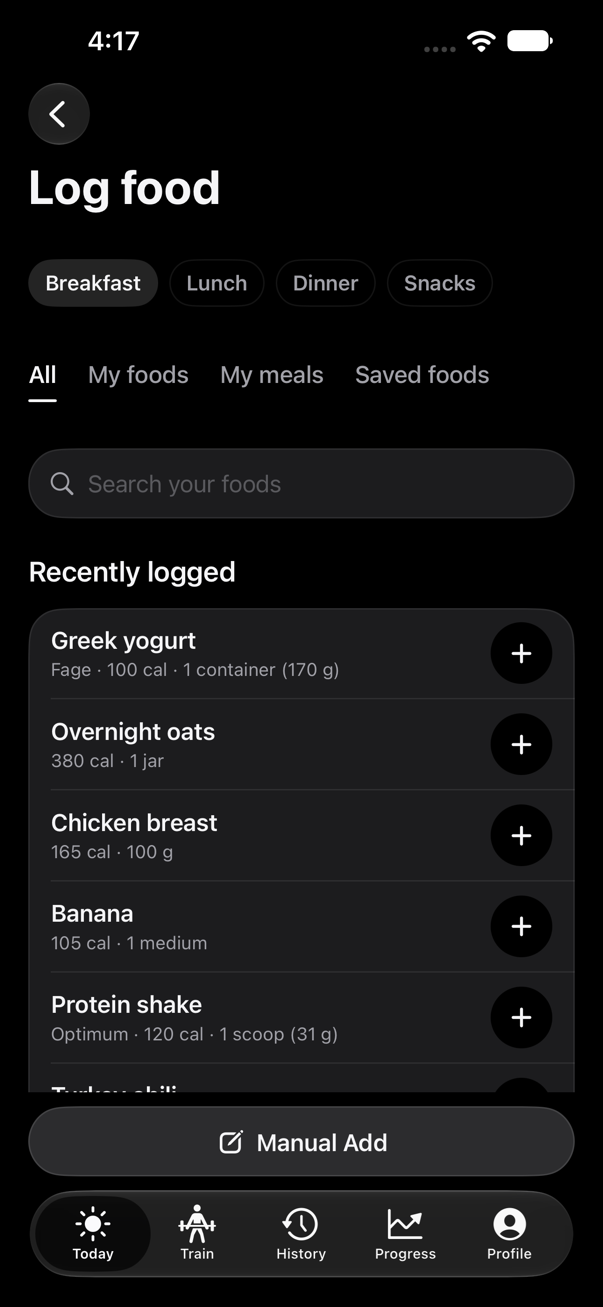
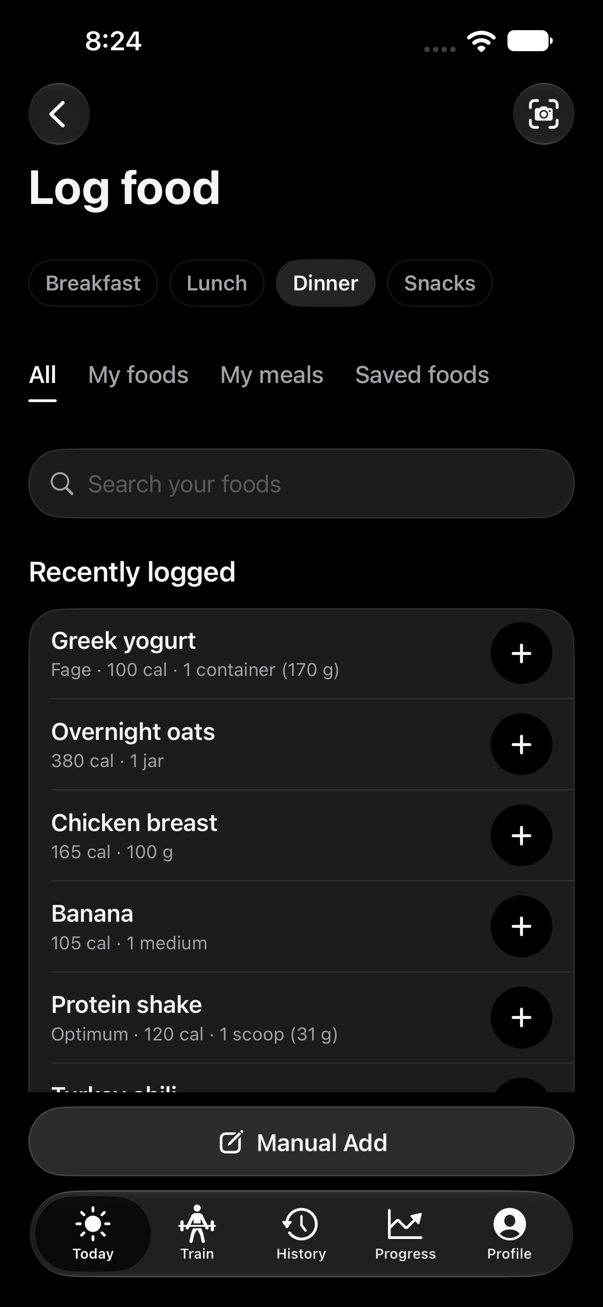
README: Log food picture with the scan camera; Codex round-2 brief
Claude-Session: https://claude.ai/code/session_017cMa8vLEK3sUNbhAQZXLaD

diff --git a/work-record/nutrition/codex-review-n7b-prompt.md b/work-record/nutrition/codex-review-n7b-prompt.md
@@ -1,0 +1,56 @@
+# Codex review — nutrition N7, round 2 (fixes for codex-review-n7)
+
+You are the independent reviewer; Claude implemented. You are a fresh Codex session (the round-1 session ran out of
+context): read AGENTS.md first, then this prompt. Checkout `/Users/ericlee06/orca/workspaces/Health App/UI_design`,
+branch `ericlee4992/nutrition-07-scan-food`. Round 1's prompt is `work-record/nutrition/codex-review-n7-prompt.md`; its
+report is `work-record/nutrition/codex-review-n7.md` (Verdict: not clear, 8 × P2 + 1 × P3 + the test-plan check).
+Review the fixes: `git diff a6de2e5..HEAD` (round 1 reviewed `a6de2e5`), and re-check anything the fixes touch in the
+whole N7 diff (`git diff 76600c2..HEAD`). Read N7's ticket and D82/D83 as in round 1.
+
+What changed, per finding (verify each is fixed and nothing new broke):
+- **T1 safety copy:** the photo is now a `FoodPhoto` row (`data: Data?`, inline — no `.externalStorage`) owned by
+  `FoodEntry.photo` (`.cascade`); `photoData` accessor; thumbnail cache keyed by the entry (no photo row load once
+  cached). New approved fingerprint (same user-approved N7 change, corrected). Tests: `SafetyCopyTests.
+  aMealPhotoComesBackWholeFromACopy` (2,000,000 bytes through the real `make` / `scheduleRestore` /
+  `performPendingRestore` into an emptied store folder) and `noAttributeIsStoredOutsideTheDatabaseFile` (the app
+  model has no external-storage attribute). Is a relationship the right call vs. inline on `FoodEntry` (Today's
+  `@Query` of all entries)? CloudKit: inline Data ≤ ~600 KB per photo.
+- **S1:** Log food's Estimate asks to sign in when `TerraAccess.ready` is false (nothing sent, words kept); the queue
+  keeps `.signedOut` (card: "Sign in, then try again." + Sign In → `AccountSignInSheet`, then the same scan is retried
+  on dismiss if signed in). Tests `testASignedOutDescriptionAsksToSignInFirst`, `testAnExpiredSessionsCardOffersSignIn`.
+- **S2:** a scan logged to an earlier day keeps its card ("Logged to Mon, Nov 9 · Lunch", Open → the items screen, ×).
+  Test `testAPhotoFromAnEarlierDayStaysReachable` (`-uiTestFoodScanYesterday`).
+- **S3:** the item editor keeps untouched numbers exactly (`EditableNumber`; `ScanItemNumbers.optional/required`);
+  unit tests in `FoodScanTests`.
+- **S4:** the shutter snapshots mode, box and view size (`capture`); the photo is handled as that; mode tiles and the
+  library button are disabled while a capture is pending; `send` takes the mode explicitly; Barcode never sends.
+- **S5:** the picked-photo import and the label read are owned tasks (`importTask`, `readTask`), cancelled on
+  Cancel / Retake / close / disappear; a label reply is accepted only for its `attempt` UUID (not by bytes).
+- **S6:** `BackgroundAssertion` (main actor) ends exactly once — work done, Remove (task cancel → defer), or iOS's
+  expiration handler, which cancels the request and leaves a "Try again" card.
+- **T2:** the queue no longer animates; Today animates on `scans.revision` with `reduceMotion ? nil : .snappy`; the
+  card's transition is opacity-only under Reduce Motion; Remove has no forced animation.
+- **T3:** README's Food logging gains Scan food; the privacy draft (`server/src/pages.ts`) says food scanning has no
+  separate prompt (sent only on the user's shot/choice/Estimate; manual logging always available) — still a DRAFT for
+  the user at R. The Log food README screenshot (`docs/readme/log-food.png`) is retaken from `LogFoodUITests/testCaptureReadme`
+  (603 px wide like the others; shows the camera in the bar).
+- **Test plans:** `ScanFoodUITests` added to TodayTrain; `python3 scripts/test-plans.py --check` exit 0.
+- D83's "(the server's day is UTC)" corrected to New York midnight.
+
+Claude's evidence (scratchpad
+`/private/tmp/claude-501/-Users-ericlee06-orca-workspaces-Health-App-UI-design/987d2e07-f1f0-4854-a4f2-1db12bf762c0/scratchpad/`):
+`u3.xcresult` (guard/safety-copy/scan units before the fingerprint update), `u4.xcresult` (Unit plan: 1,232 definitions / 1,252
+executions, 0 failed), `v2.xcresult` (ScanFood 10 + TodayFood + LogFood + LogFoodFlow, 2 workers: 27/27);
+`rd.xcresult` (README capture); server `npm test` 254/254 and `tsc` clean.
+
+Reviewer rule (round 2): build; run the Unit plan; the fixes change UI behaviour and UI tests, so rerun
+`AAAWarmUpUITests`, `ScanFoodUITests`, `TodayFoodUITests`, `LogFoodUITests`, `LogFoodFlowUITests` (2 workers; rerun
+failures serially before judging); server `npm test` + `npx tsc --noEmit`; `python3 scripts/test-plans.py --check`.
+Run on **WT-iPhone27** `47D21838-69A6-4BCB-AE90-B0D9C0AAA70B` (`scripts/prepare-test-simulator.sh <id>` first), paths
+under `/tmp/codex-n7b/`. Show progress in the existing Orca tab "Test progress (Claude r2)"
+`term_ac1339dc-202d-4c10-bab3-b528de726cbd` once it is back at its prompt — do not open a new terminal. Do not modify
+files other than the report; do not commit or push; never print or copy the OpenAI key.
+
+Write `work-record/nutrition/codex-review-n7b.md`: per round-1 finding fixed / not fixed; new findings P1/P2/P3 with
+file:line, failure scenario and fix; a Verified / Not verified / Known flaky block; end with exactly `Verdict: clear` or
+`Verdict: not clear`.
